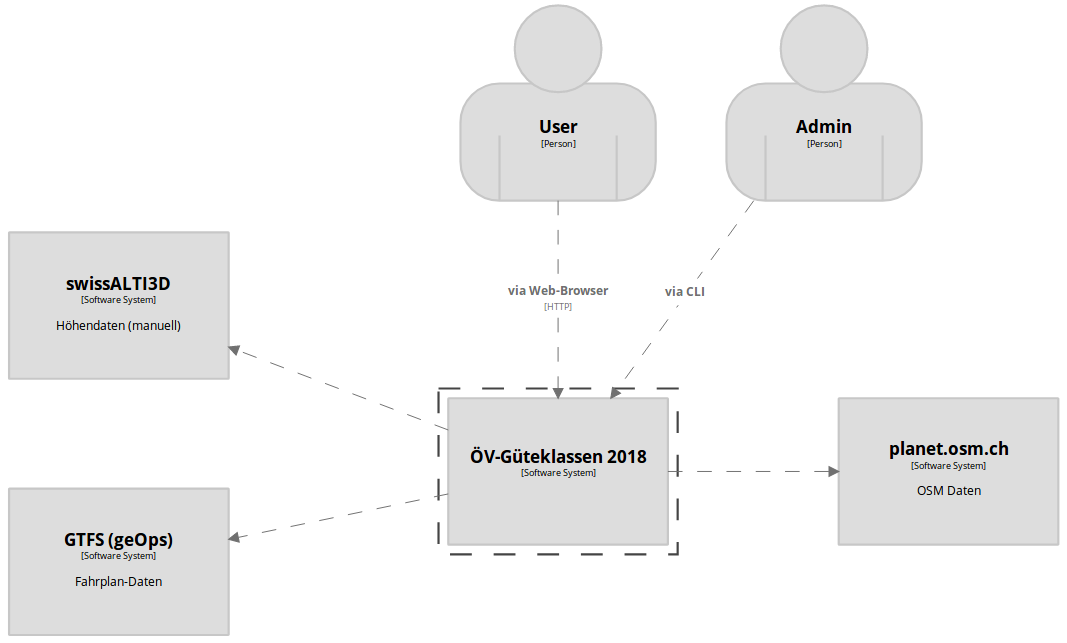
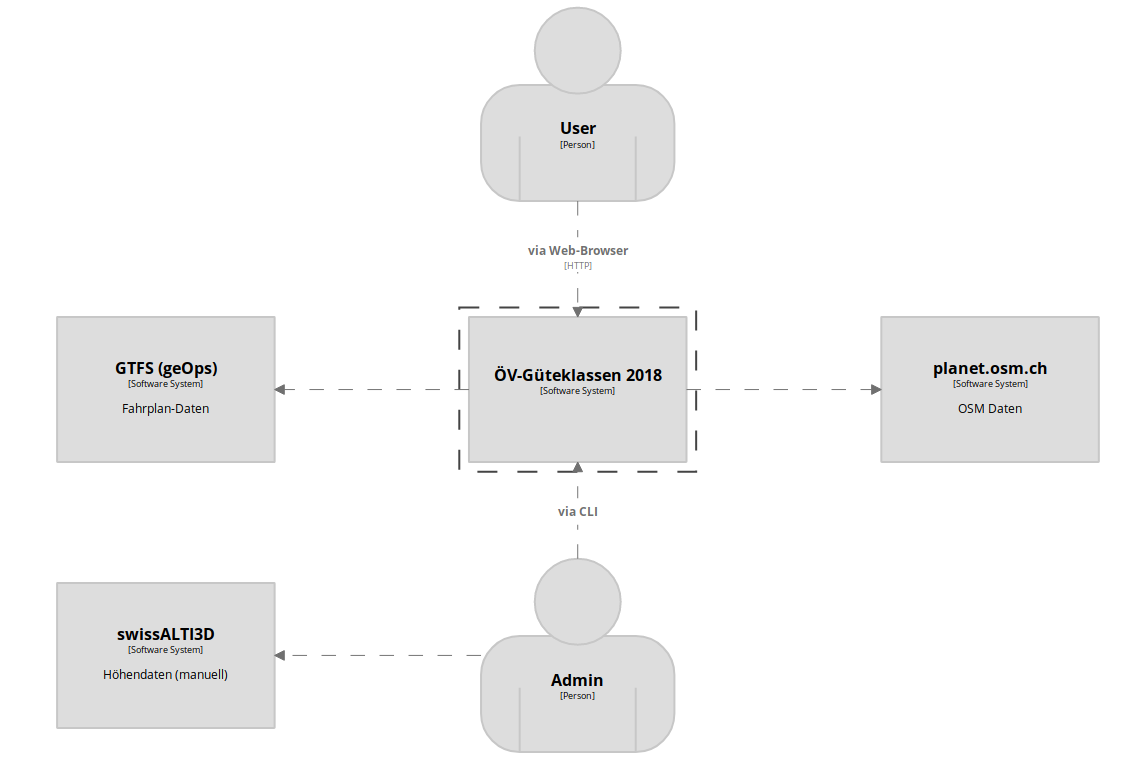
update context and container diagrams

diff --git a/projectdoc/architektur.tex b/projectdoc/architektur.tex
@@ -27,7 +27,7 @@ Im Folgenden werden die Umsysteme sowie die Beziehungen zu unserem System ''ÖV-
 \label{subsystem:swissALTI3D}
 
 Für die Höhendaten wird swissALTI3D, ein Produkt von swisstopo~\cite{swissalti3d_swisstopo}, verwendet.
-Diese werden manuell bezogen, da der Datensatz mit ca. 120GB für ein Download über das Web-\ac{API} zu gross ist und da die Daten keinem stetigem Wandel unterstellt sind.
+Diese werden manuell vom Admin bezogen, da der Datensatz mit ca. 120GB für ein Download über das Web-\ac{API} zu gross ist und da die Daten keinem stetigem Wandel unterstellt sind.
 
 Das Höhenmodell wird anschliessend in die Routing-Engine integriert, wo die Höhenunterschiede für die Kostenberechnung einer Route verwendet werden können.
 
@@ -57,7 +57,7 @@ Im Folgenden werden die einzelnen Container genauer beschrieben.
 
 \begin{figure}[ht]
     \centering
-    \includegraphics[width=0.8\linewidth]{projectdoc/img/container-diagram}
+    \includegraphics[width=0.8\linewidth]{projectdoc/img/container-diagram.png}
     \caption[ht]{}
     \caption[Containerdiagramm]{Containerdiagramm ÖV-Güteklassen 2018}
     \label{fig:container-diagram}
@@ -100,7 +100,7 @@ Die beiden Varianten werden im Kapitel \ref{Analyse:Evaluation Frontend-Framewor
 \label{container:Routing-Engine}
 
 Die Routing-Engine ist für die Berechnung von Isolinien verantwortlich.
-Dazu werden zuerst periodisch die Kartendaten von \nameref{subsystem:planet.osm.ch} eingelesen und zusammen mit dem Höhenmodell von \nameref{subsystem:swissALTI3D} eine Routing-Topologie erstellt.
+Dazu werden zuerst periodisch die Kartendaten von \nameref{subsystem:planet.osm.ch} eingelesen und zusammen mit dem Höhenmodell von \nameref{subsystem:swissALTI3D}, das zuvor vom Admin manuell besorgt wurde, eine Routing-Topologie erstellt.
 
 Sobald der Admin die Berechnung der ÖV-Güteklassen auslöst, wird die Routing-Engine vom \nameref{container:processor} nach Isolinien abgefragt, die mit Haltestellen als Startpunkt und einer gewissen Distanz (gewichtet nach Höhenunterschied) berechnet werden.
 Diese Isodistanzen bilden Polygone, die anschliessend vom Processor weiter verarbeitet werden.
